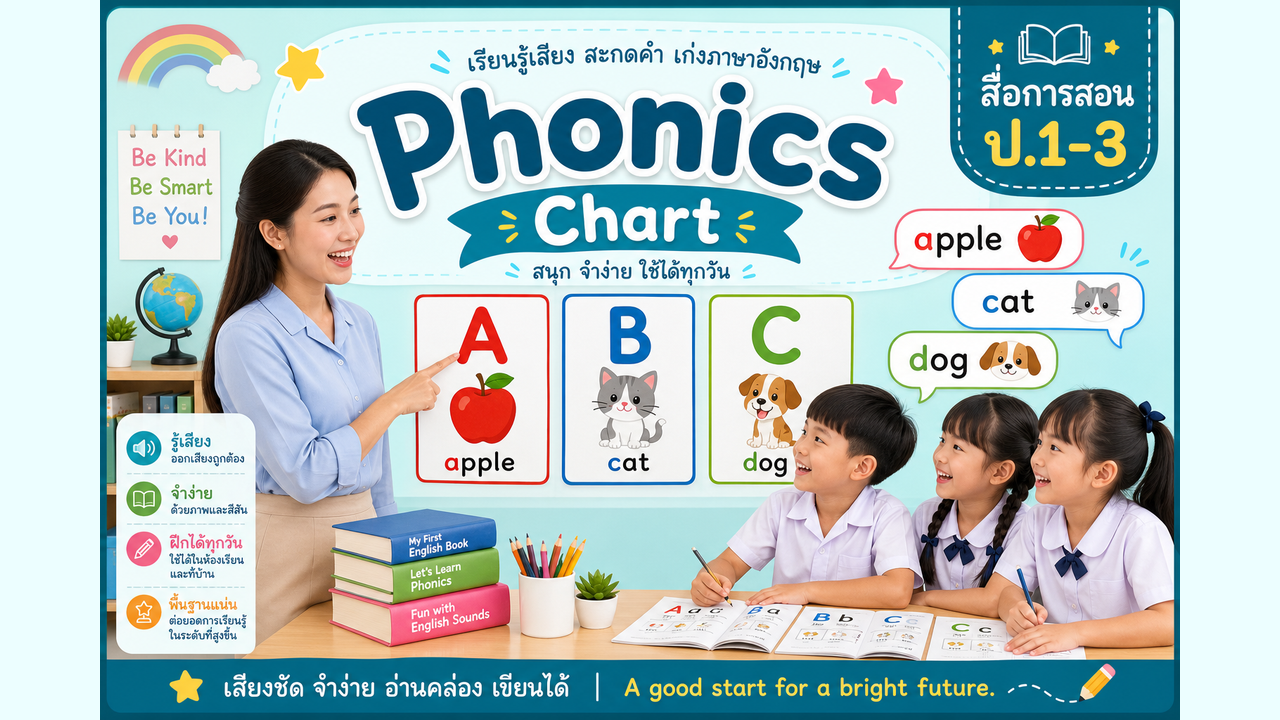
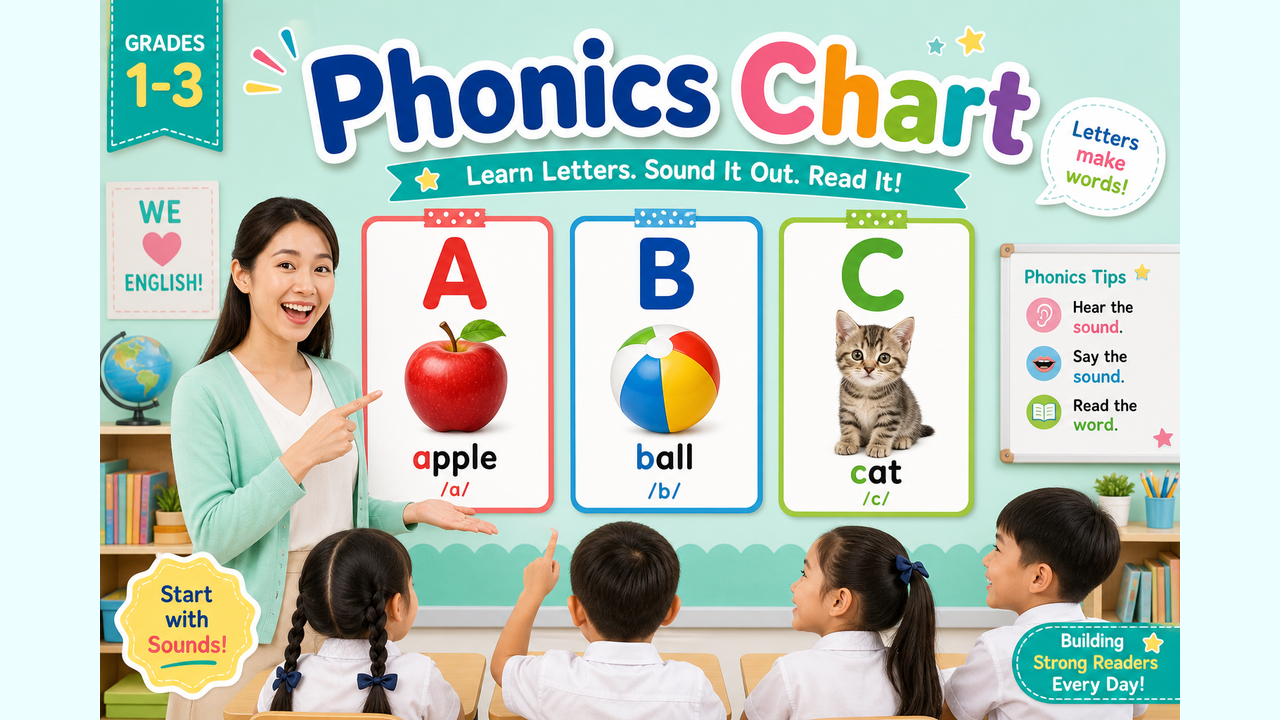
fix(media): unique content-matched covers for media library
Replace identical covers on fraction-hub and grammar-hub (were same as script-hub). Refresh phonics cover. Migration 324 cache-busts thumbnails.

diff --git a/src/components/admin/system/SystemOverview.tsx b/src/components/admin/system/SystemOverview.tsx
@@ -272,8 +272,18 @@ const sprintPlan = [
 
 const versionHistory = [
     {
-        version: 'v1.146.0 (สื่อมาตราตัวสะกด — T2)',
+        version: 'v1.147.0 (ปกคลังสื่อ — ไม่ซ้ำ + ตรงเนื้อหา)',
         date: 'ล่าสุด',
+        badge: 'bg-violet-600',
+        items: [
+            'แก้ปกซ้ำ 3 ชิ้นที่ใช้ไฟล์เดียวกัน (math-fraction-hub / thai-grammar-hub / thai-script-hub)',
+            'สร้างปกใหม่ตรงเนื้อหา: **แท่งเศษส่วนบวกลบ** · **คลังไวยากรณ์ไทย** · **Phonics A-apple B-ball C-cat**',
+            'คลังสื่อ 12 ชิ้นมีปก PNG 1280×720 ไม่ซ้ำกัน · Migration 324 cache-bust thumbnail',
+        ],
+    },
+    {
+        version: 'v1.146.0 (สื่อมาตราตัวสะกด — T2)',
+        date: '',
         badge: 'bg-rose-600',
         items: [
             '**สื่อการสอน** `thai-matra-chart` — มาตราตัวสะกด ป.1–3: 8 แม่ (กก กง กด กน กบ กม เกย เกอว) + ตัวสะกด + คำตัวอย่าง',
@@ -281,6 +291,7 @@ const versionHistory = [
             'หมวดคลังสื่อการสอน · Migration 323',
         ],
     },
+
     {
         version: 'v1.145.0 (สื่อตารางสูตรคูณ — M2)',
         date: '',
